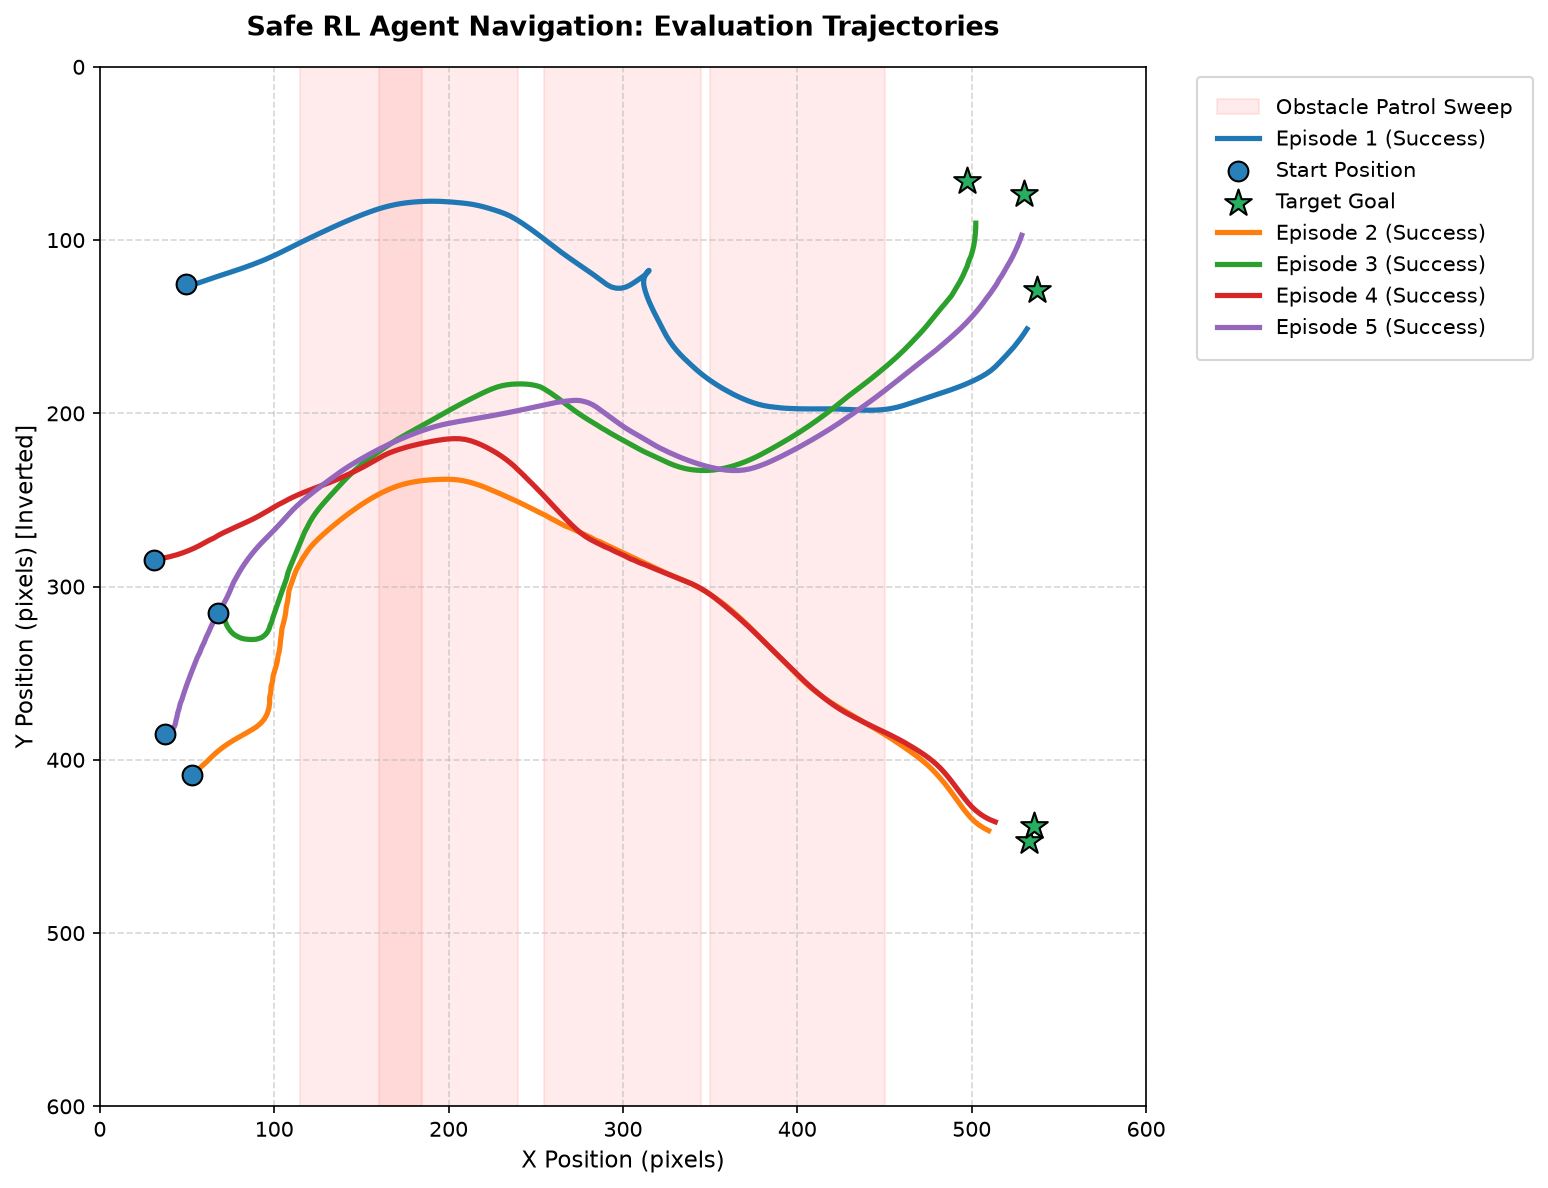
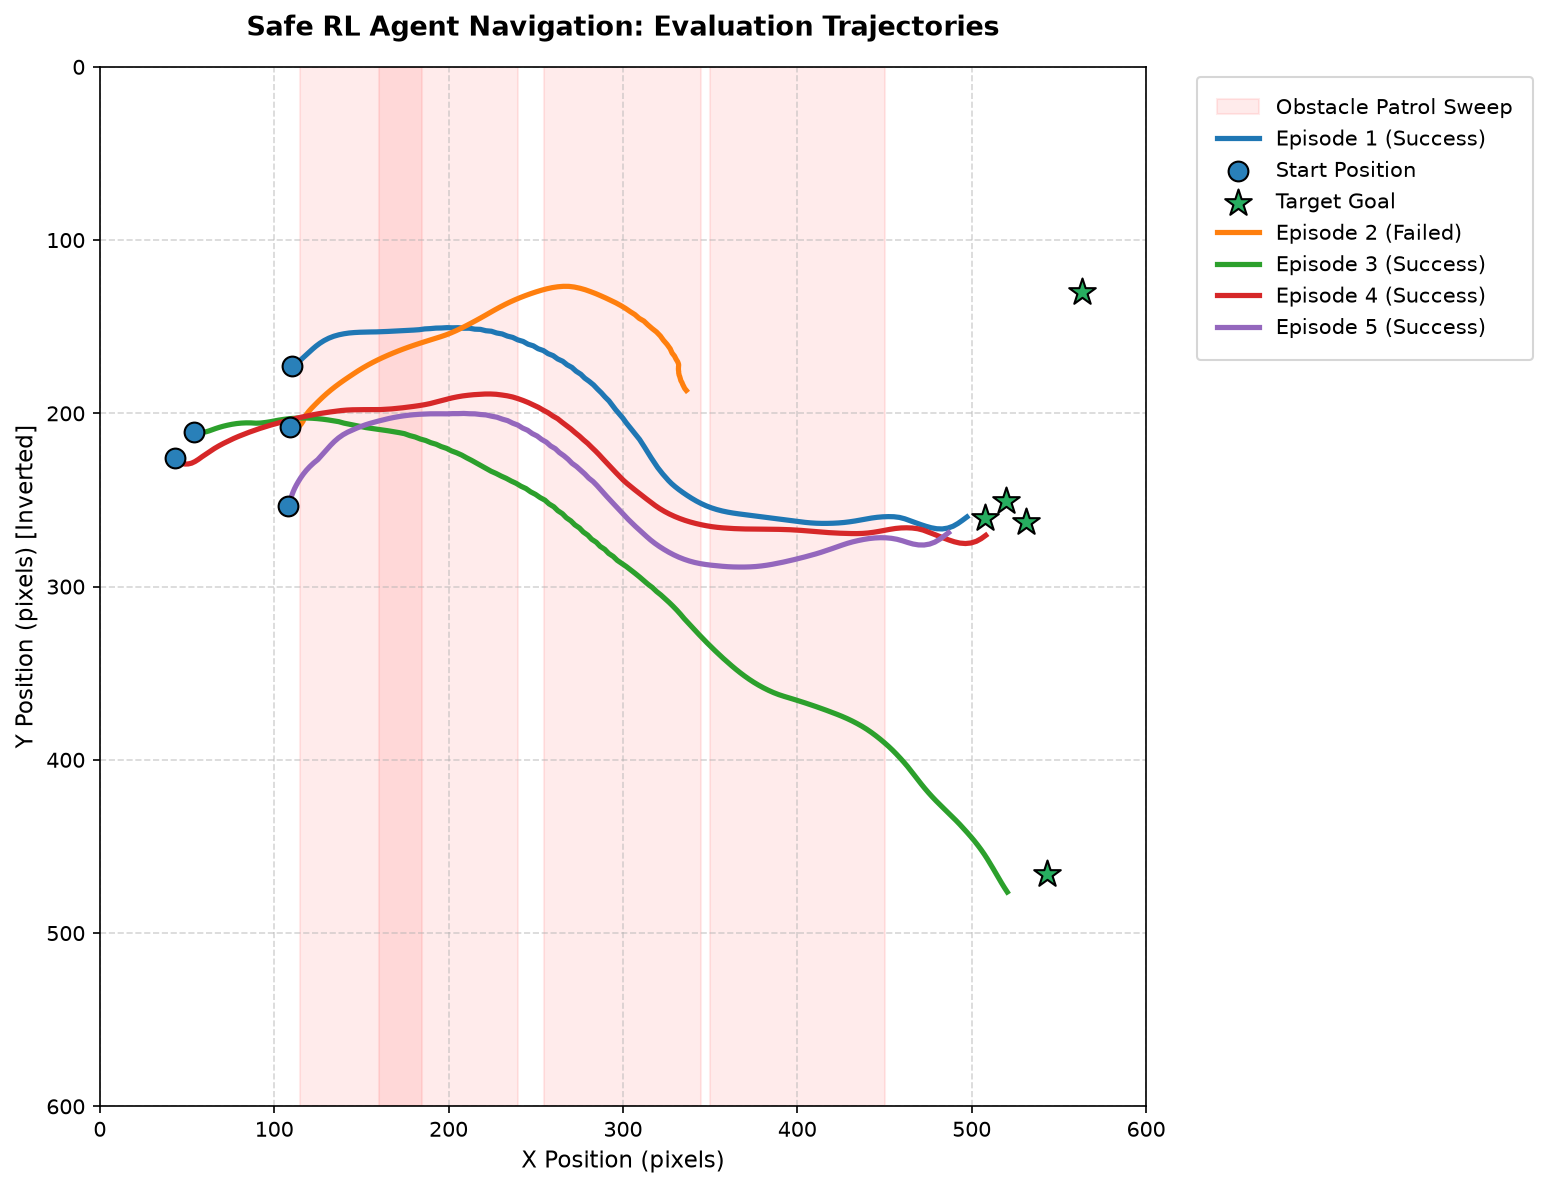
Add Graphs and Statistics

diff --git a/src/train.py b/src/train.py
@@ -1,9 +1,11 @@
 import argparse
 import os
+import json
 import numpy as np
 import torch
 import torch.nn.functional as F
 import torch.optim as optim
+import matplotlib.pyplot as plt
 from env import SafeNavigationEnv
 from agent import ActorNetwork, CriticNetwork, ReplayBuffer
 from lagrangian import LagrangianMultiplier
@@ -45,6 +47,7 @@ def train(args):
 
     reward_history = []
     cost_history = []
+    lambda_history = []
     total_steps = 0
 
     for episode in range(1, args.episodes + 1):
@@ -125,8 +128,9 @@ def train(args):
             for p, tp in zip(critic.parameters(), target_critic.parameters()):
                 tp.data.copy_(args.tau * p.data + (1.0 - args.tau) * tp.data)
 
-        reward_history.append(episode_reward)
-        cost_history.append(episode_cost)
+        reward_history.append(float(episode_reward))
+        cost_history.append(float(episode_cost))
+        lambda_history.append(float(lagrangian.value))
 
         # Update Lagrangian multiplier
         if episode >= args.warmup_episodes:
@@ -140,6 +144,48 @@ def train(args):
     print(f"\nTraining Complete! Saving actor weights to: {args.save_path}")
     os.makedirs(os.path.dirname(args.save_path), exist_ok=True)
     torch.save(actor.state_dict(), args.save_path)
+
+    # Save training history data to JSON
+    history = {
+        "rewards": reward_history,
+        "costs": cost_history,
+        "lambdas": lambda_history
+    }
+    history_path = os.path.join(os.path.dirname(args.save_path), "training_history.json")
+    with open(history_path, "w") as f:
+        json.dump(history, f, indent=2)
+    print(f"Training metrics history saved to: {history_path}")
+
+    # Generate and save performance curve plots
+    plt.figure(figsize=(12, 4))
+    
+    plt.subplot(1, 3, 1)
+    plt.plot(reward_history, color='g')
+    plt.title("Cumulative Reward")
+    plt.xlabel("Episode")
+    plt.ylabel("Reward")
+    
+    plt.subplot(1, 3, 2)
+    plt.plot(cost_history, color='r')
+    plt.axhline(y=args.cost_limit, color='b', linestyle='--', label=f'Limit ({args.cost_limit})')
+    plt.title("Cumulative Cost")
+    plt.xlabel("Episode")
+    plt.ylabel("Cost")
+    plt.legend()
+    
+    plt.subplot(1, 3, 3)
+    plt.plot(lambda_history, color='purple')
+    plt.title("Lagrangian Lambda Evolution")
+    plt.xlabel("Episode")
+    plt.ylabel("Lambda")
+    
+    plt.tight_layout()
+    plot_path = os.path.join(os.path.dirname(args.save_path), "..", "assets", "training_performance.png")
+    plot_path = os.path.abspath(plot_path)
+    os.makedirs(os.path.dirname(plot_path), exist_ok=True)
+    plt.savefig(plot_path, dpi=150)
+    print(f"Training performance curves exported to: {plot_path}")
+    plt.close()
 
 if __name__ == "__main__":
     train(parse_args())